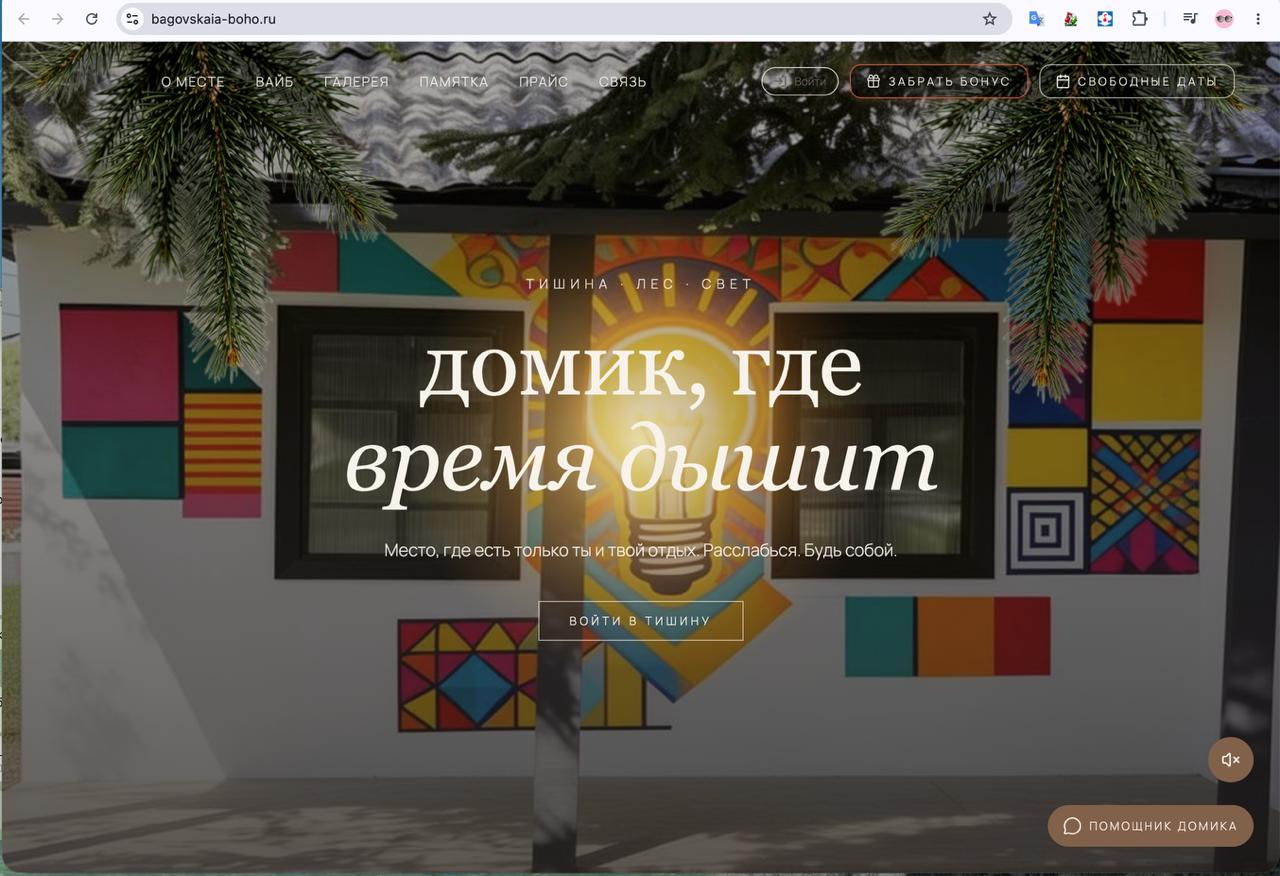
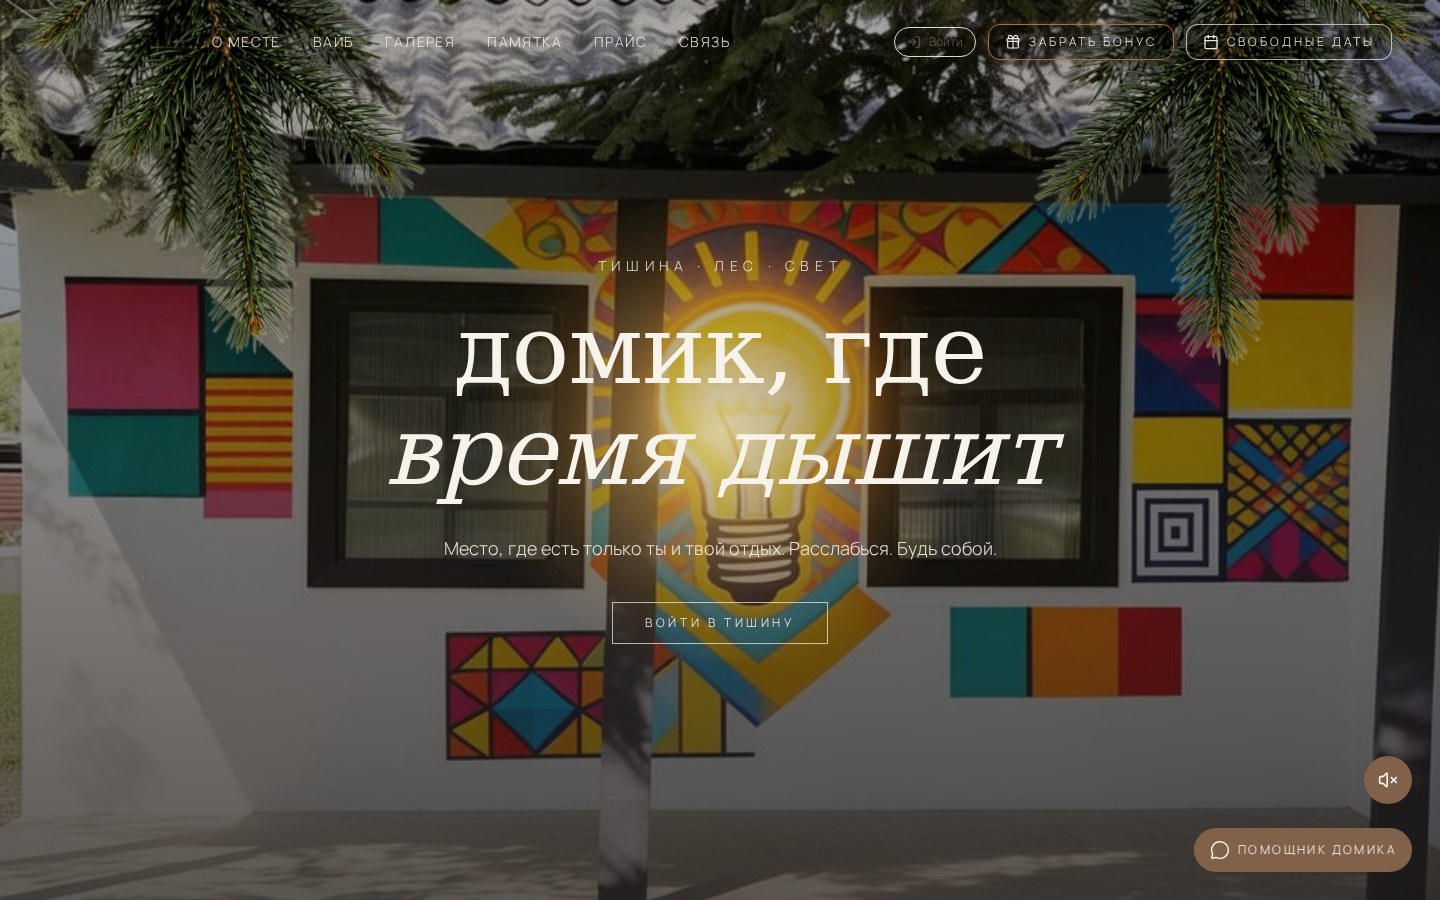
[agent] feat: масштабная правка сайта по правкам Артура
- hero: убрал значок "AI продукты", добавил полный текст миссии
- удалил секцию "Технологии" и пункт меню
- под каждым смысловым блоком добавил плашку "Обсудить проект"
- контакты: оставил только Telegram, убрал канал
- портфолио: Баговская Boho и Ludmila SkinBody теперь в широком горизонтальном формате
  с чистыми полноэкранными скриншотами главных страниц (без обрезки и рамки браузера)
- убрал все длинные тире из текста сайта (заменил на короткий дефис)

diff --git a/index.html b/index.html
@@ -98,10 +98,6 @@
     border-radius:999px;
     font-size:0.78rem;font-weight:700;letter-spacing:0.06em;text-transform:uppercase;
   }
-  .hero-badge{
-    position:absolute;z-index:2;
-    top:16%;right:9%;
-  }
   .hero h1{
     font-size:3.2rem;line-height:1.05;margin-bottom:16px;
     color:var(--lilac-pale);
@@ -109,7 +105,12 @@
     letter-spacing:0.01em;
   }
   .hero-mission{
-    font-size:1.15rem;color:var(--text);margin-bottom:32px;
+    font-size:1.15rem;color:var(--text);margin-bottom:14px;font-weight:700;
+    text-shadow:0 1px 6px rgba(0,0,0,0.6);
+  }
+  .hero-sub{
+    font-size:0.98rem;color:var(--text-dim);margin-bottom:32px;max-width:560px;
+    margin-left:auto;margin-right:auto;
     text-shadow:0 1px 6px rgba(0,0,0,0.6);
   }
   .btn{
@@ -188,7 +189,7 @@
   .portfolio{background:var(--panel)}
   .portfolio-grid{
     display:grid;grid-template-columns:repeat(auto-fit,minmax(300px,1fr));
-    gap:28px;max-width:780px;margin:0 auto;
+    gap:28px;max-width:1000px;margin:0 auto;
   }
   .portfolio-card{
     background:var(--bg);border-radius:16px;overflow:hidden;
@@ -209,16 +210,17 @@
     border-radius:12px;padding:14px 16px;font-size:0.85rem;
     margin-bottom:16px;
   }
-  .portfolio-featured{
+  .portfolio-wide{
     grid-column:1 / -1;
+  }
+  .portfolio-wide img{width:100%;height:auto;aspect-ratio:16/10;object-fit:cover;object-position:top}
+  .portfolio-wide .portfolio-card-body{padding:32px}
+  .portfolio-featured{
     border:1px solid var(--amethyst);
     box-shadow:0 0 0 1px rgba(196,163,166,0.15), 0 0 40px rgba(196,163,166,0.12);
-    display:grid;grid-template-columns:minmax(260px,1fr) 1.3fr;
   }
-  .portfolio-featured img{height:100%;min-height:280px}
-  .portfolio-featured .portfolio-card-body{padding:32px}
   .portfolio-featured-badge{margin-bottom:14px}
-  .portfolio-featured h3{font-size:1.6rem}
+  .portfolio-wide h3{font-size:1.6rem}
   .portfolio-referral{
     background:var(--lavender-dim);border:1px solid rgba(196,163,166,0.3);
     border-radius:12px;padding:18px 20px;margin:0 0 16px;
@@ -227,8 +229,7 @@
   .portfolio-referral p:last-child{margin-bottom:0}
   .portfolio-referral .eyebrow{text-align:left;margin-bottom:8px}
   @media (max-width:760px){
-    .portfolio-featured{grid-template-columns:1fr}
-    .portfolio-featured img{height:220px;min-height:0}
+    .portfolio-wide img{aspect-ratio:4/3}
   }
   .portfolio-placeholder{
     max-width:560px;margin:28px auto 0;text-align:center;
@@ -237,19 +238,6 @@
   }
   .portfolio-placeholder h3{margin-bottom:10px;font-size:1rem}
   .portfolio-placeholder p{color:var(--text-dim);font-size:0.92rem}
-
-  /* TECH */
-  .tech-badges{
-    display:flex;flex-wrap:wrap;justify-content:center;gap:12px;max-width:720px;margin:0 auto;
-  }
-  .badge{
-    background:var(--panel);
-    border:1px solid rgba(196,163,166,0.28);
-    color:var(--text);
-    padding:10px 20px;
-    border-radius:24px;
-    font-size:0.92rem;font-weight:600;
-  }
 
   /* CONTACTS */
   .contacts{
@@ -261,8 +249,12 @@
   .contacts p{color:var(--text-dim);max-width:520px;margin:0 auto 32px}
   .contact-buttons{display:flex;flex-wrap:wrap;gap:16px;justify-content:center;margin-bottom:28px}
   .contact-buttons a.btn{background:var(--amethyst);color:var(--ink)}
-  .contact-buttons a.btn.secondary{background:transparent;border:2px solid var(--amethyst);color:var(--lavender)}
-  .contact-buttons a.btn.secondary:hover{background:var(--amethyst);color:var(--ink)}
+
+  /* BLOCK CTA */
+  .block-cta{
+    text-align:center;padding:36px 0;
+    border-top:1px solid var(--panel-border);
+  }
 
   footer{
     background:var(--bg);
@@ -301,7 +293,6 @@
     .hero{aspect-ratio:4/5}
     .hero-bg{object-position:center top}
     .hero .container{padding-bottom:32px}
-    .hero-badge{position:absolute;top:6%;left:50%;right:auto;transform:translateX(-50%)}
   }
   @media (max-width:600px){
     .hero h1{font-size:2.1rem}
@@ -324,7 +315,6 @@
       <a href="#team">Команда</a>
       <a href="#services">Услуги</a>
       <a href="#portfolio">Портфолио</a>
-      <a href="#tech">Технологии</a>
       <button class="cert-trigger nav-btn" onclick="openCertModal()">Сертификаты</button>
       <a href="#contacts">Контакты</a>
     </nav>
@@ -337,12 +327,14 @@
     <img class="hero-bg" src="assets/photos/artur-i-keti-main.jpg" alt="Артур и Кети, команда KISELEVY CREO">
   </picture>
   <div class="hero-overlay"></div>
-  <span class="badge-pill hero-badge">AI продукты · боты · автоматизация</span>
   <div class="container">
     <div class="hero-text">
       <span class="eyebrow">Цифровой бутик KISELEVY CREO</span>
       <h1>KISELEVY CREO</h1>
-      <p class="hero-mission">Время - ваш самый ценный актив</p>
+      <p class="hero-mission">Время - ваш самый ценный актив.</p>
+      <p class="hero-sub">Рутина съедает ваши дни, заявки теряются, а бизнес держится
+        только на вас. Мы строим системы, которые забирают рутину и приводят клиентов,
+        чтобы вы получили главное - вернули себе самый ценный актив. Это ваше время.</p>
       <a class="btn btn-pulse" href="https://t.me/KISELEVY_CREO" target="_blank" rel="noopener">Обсудить проект</a>
     </div>
   </div>
@@ -364,6 +356,8 @@
   </div>
 </section>
 
+<div class="block-cta"><a class="btn" href="https://t.me/KISELEVY_CREO" target="_blank" rel="noopener">Обсудить проект</a></div>
+
 <section class="team" id="team">
   <div class="container">
     <h2>Наша <span class="accent">команда</span></h2>
@@ -383,6 +377,8 @@
     </div>
   </div>
 </section>
+
+<div class="block-cta"><a class="btn" href="https://t.me/KISELEVY_CREO" target="_blank" rel="noopener">Обсудить проект</a></div>
 
 <section class="services" id="services">
   <div class="container">
@@ -430,11 +426,13 @@
   </div>
 </section>
 
+<div class="block-cta"><a class="btn" href="https://t.me/KISELEVY_CREO" target="_blank" rel="noopener">Обсудить проект</a></div>
+
 <section class="portfolio" id="portfolio">
   <div class="container">
     <h2>Наше <span class="accent">портфолио</span></h2>
     <div class="portfolio-grid">
-      <div class="portfolio-card portfolio-featured">
+      <div class="portfolio-card portfolio-wide portfolio-featured">
         <img src="assets/portfolio/bagovskaia-boho.jpg" alt="Сайт бронирования дома «Баговская Boho»">
         <div class="portfolio-card-body">
           <span class="badge-pill portfolio-featured-badge">Флагманский проект · наш личный кейс</span>
@@ -447,8 +445,8 @@
             реально работает.</p>
           <p>Гость заходит на сайт, общается с ассистентом, тот сам показывает
             свободные даты и цену, оформляет бронь в календаре и присылает заявку нам
-            в Telegram — остаётся только подтвердить одним касанием. Инструкции по
-            заселению, ключи, вопросы о доме — ассистент отвечает сам, даже если
+            в Telegram - остаётся только подтвердить одним касанием. Инструкции по
+            заселению, ключи, вопросы о доме - ассистент отвечает сам, даже если
             разница часовых поясов не в нашу пользу. Своя админ-панель даёт полный
             контроль на расстоянии: список заявок и броней, перенос и отмена дат,
             посты в Telegram-канал дома.</p>
@@ -456,21 +454,42 @@
             <span class="eyebrow">Монетизация внутри визитки</span>
             <p><b>Программа «Пригласи друга»:</b> гость получает персональный код и
               делится им с друзьями.</p>
-            <p>Когда друг бронирует отдых по этому коду — гость выбирает награду:
+            <p>Когда друг бронирует отдых по этому коду - гость выбирает награду:
               15% скидка на своё следующее проживание, 10% кэшбэк на карту или 10%
               сертификат для друга. Всё считается и выдаётся автоматически, без
               нашего участия.</p>
           </div>
           <ul class="benefits">
-            <li><b>Выгода:</b> бизнес работает 24/7 из любой точки мира — бронь и заселение не встают на паузу, даже когда мы спим или заняты другими проектами.</li>
+            <li><b>Выгода:</b> бизнес работает 24/7 из любой точки мира - бронь и заселение не встают на паузу, даже когда мы спим или заняты другими проектами.</li>
             <li><b>Пока мы недоступны:</b> ассистент уже ведёт следующего гостя к подтверждённой брони и параллельно начисляет бонусы по реферальной программе.</li>
-            <li><b>Отличие от конкурентов:</b> вместо формы «оставить заявку» и созвона в неудобное время, гость сам доходит до готовой брони в диалоге, а хозяину остаётся только подтвердить — из любой страны.</li>
+            <li><b>Отличие от конкурентов:</b> вместо формы «оставить заявку» и созвона в неудобное время, гость сам доходит до готовой брони в диалоге, а хозяину остаётся только подтвердить - из любой страны.</li>
           </ul>
           <p class="portfolio-note">Это не просто сайт для одного дома. Это шаблон
             цифрового управляющего для любого дистанционного бизнеса в сфере аренды
             и гостеприимства: сам продаёт, сам заселяет, сам приводит новых клиентов
             через действующих.</p>
           <a class="link" href="https://bagovskaia-boho.ru" target="_blank" rel="noopener">Смотреть сайт →</a>
+        </div>
+      </div>
+      <div class="portfolio-card portfolio-wide">
+        <img src="assets/portfolio/ludmila-skinbody-full.jpg" alt="Сайт-визитка косметолога Ludmila SkinBody">
+        <div class="portfolio-card-body">
+          <h3>Ludmila SkinBody</h3>
+          <p>Сайт-визитка мастера-косметолога с записью на свободные даты по
+            календарю. Встроенный ИИ-ассистент ведёт диалог с клиентами 24/7,
+            отвечает на вопросы, подбирает нужную услугу, сам считает время и
+            стоимость процедуры и фиксирует запись, плюс следит за заявками,
+            записями и свободными окошками.</p>
+          <ul class="benefits">
+            <li><b>Выгода:</b> запись идёт даже ночью и в выходной, ни одна заявка не теряется, пока мастер офлайн.</li>
+            <li><b>Пока мастер физически работает руками с клиентом на процедуре:</b> ассистент уже отвечает следующему клиенту, считает стоимость и записывает его на свободное окошко.</li>
+            <li><b>Отличие от конкурентов:</b> обычно нужен отдельный администратор или запись идёт по звонку, здесь ассистент сам ведёт диалог, считает цену и заполняет календарь без администратора.</li>
+          </ul>
+          <p class="portfolio-note">Это не просто сайт. Это цифровая платформа, которая
+            берёт на себя рутинные задачи, отвечает клиентам и записывает их на
+            процедуры, и при этом рассказывает, кто вы и какой вы мастер.
+            Разместить её можно на любой площадке. Это как личная электронная
+            визитка, только обученная именно под вас и ваши задачи.</p>
         </div>
       </div>
       <div class="portfolio-card">
@@ -551,27 +570,6 @@
           </ul>
         </div>
       </div>
-      <div class="portfolio-card">
-        <img src="assets/portfolio/ludmila-skinbody.jpg" alt="Сайт-визитка косметолога Ludmila SkinBody">
-        <div class="portfolio-card-body">
-          <h3>Ludmila SkinBody</h3>
-          <p>Сайт-визитка мастера-косметолога с записью на свободные даты по
-            календарю. Встроенный ИИ-ассистент ведёт диалог с клиентами 24/7,
-            отвечает на вопросы, подбирает нужную услугу, сам считает время и
-            стоимость процедуры и фиксирует запись, плюс следит за заявками,
-            записями и свободными окошками.</p>
-          <ul class="benefits">
-            <li><b>Выгода:</b> запись идёт даже ночью и в выходной, ни одна заявка не теряется, пока мастер офлайн.</li>
-            <li><b>Пока мастер физически работает руками с клиентом на процедуре:</b> ассистент уже отвечает следующему клиенту, считает стоимость и записывает его на свободное окошко.</li>
-            <li><b>Отличие от конкурентов:</b> обычно нужен отдельный администратор или запись идёт по звонку, здесь ассистент сам ведёт диалог, считает цену и заполняет календарь без администратора.</li>
-          </ul>
-          <p class="portfolio-note">Это не просто сайт. Это цифровая платформа, которая
-            берёт на себя рутинные задачи, отвечает клиентам и записывает их на
-            процедуры, и при этом рассказывает, кто вы и какой вы мастер.
-            Разместить её можно на любой площадке. Это как личная электронная
-            визитка, только обученная именно под вас и ваши задачи.</p>
-        </div>
-      </div>
     </div>
     <div class="portfolio-placeholder">
       <h3>Ещё кейсы скоро появятся здесь</h3>
@@ -580,31 +578,12 @@
   </div>
 </section>
 
-<section class="tech" id="tech">
-  <div class="container">
-    <h2>Наши <span class="accent">технологии</span></h2>
-    <div class="tech-badges">
-      <span class="badge">Python / aiogram</span>
-      <span class="badge">JavaScript / Node.js</span>
-      <span class="badge">Supabase / PostgreSQL</span>
-      <span class="badge">DeepSeek</span>
-      <span class="badge">Claude Code</span>
-      <span class="badge">Google Gemini</span>
-      <span class="badge">Telegram Bot API</span>
-      <span class="badge">Vercel</span>
-      <span class="badge">GitHub</span>
-    </div>
-  </div>
-</section>
-
 <section class="contacts" id="contacts">
   <div class="container">
     <h2>Свяжитесь с <span class="accent">нами</span></h2>
-    <p>Пишите напрямую в Telegram, отвечаем лично. Следите за новыми цифровыми
-      продуктами в канале KISELEVY CREO.</p>
+    <p>Пишите напрямую в Telegram, отвечаем лично.</p>
     <div class="contact-buttons">
       <a class="btn" href="https://t.me/KISELEVY_CREO" target="_blank" rel="noopener">Написать в Telegram</a>
-      <a class="btn secondary" href="https://t.me/Kiselevy_Creo_digital" target="_blank" rel="noopener">Канал KISELEVY CREO</a>
     </div>
   </div>
 </section>
@@ -625,11 +604,11 @@
     <div class="cert-grid">
       <div class="cert-card" onclick="openLightbox('assets/certificates/keti-producer-reels.jpg')">
         <img src="assets/certificates/keti-producer-reels.jpg" alt="Сертификат Екатерины Киселёвой «Продюсер Reels»" loading="lazy">
-        <p>Екатерина Киселёва — «Продюсер Reels», заработок на Reels</p>
+        <p>Екатерина Киселёва - «Продюсер Reels», заработок на Reels</p>
       </div>
       <div class="cert-card" onclick="openLightbox('assets/certificates/keti-zarabotok-na-reels-dark.jpg')">
         <img src="assets/certificates/keti-zarabotok-na-reels-dark.jpg" alt="Сертификат Екатерины Киселёвой «Заработок на Reels»" loading="lazy">
-        <p>Екатерина Киселёва — курс «Заработок на Reels», преподаватель Арина Алекс</p>
+        <p>Екатерина Киселёва - курс «Заработок на Reels», преподаватель Арина Алекс</p>
       </div>
     </div>
   </div>
